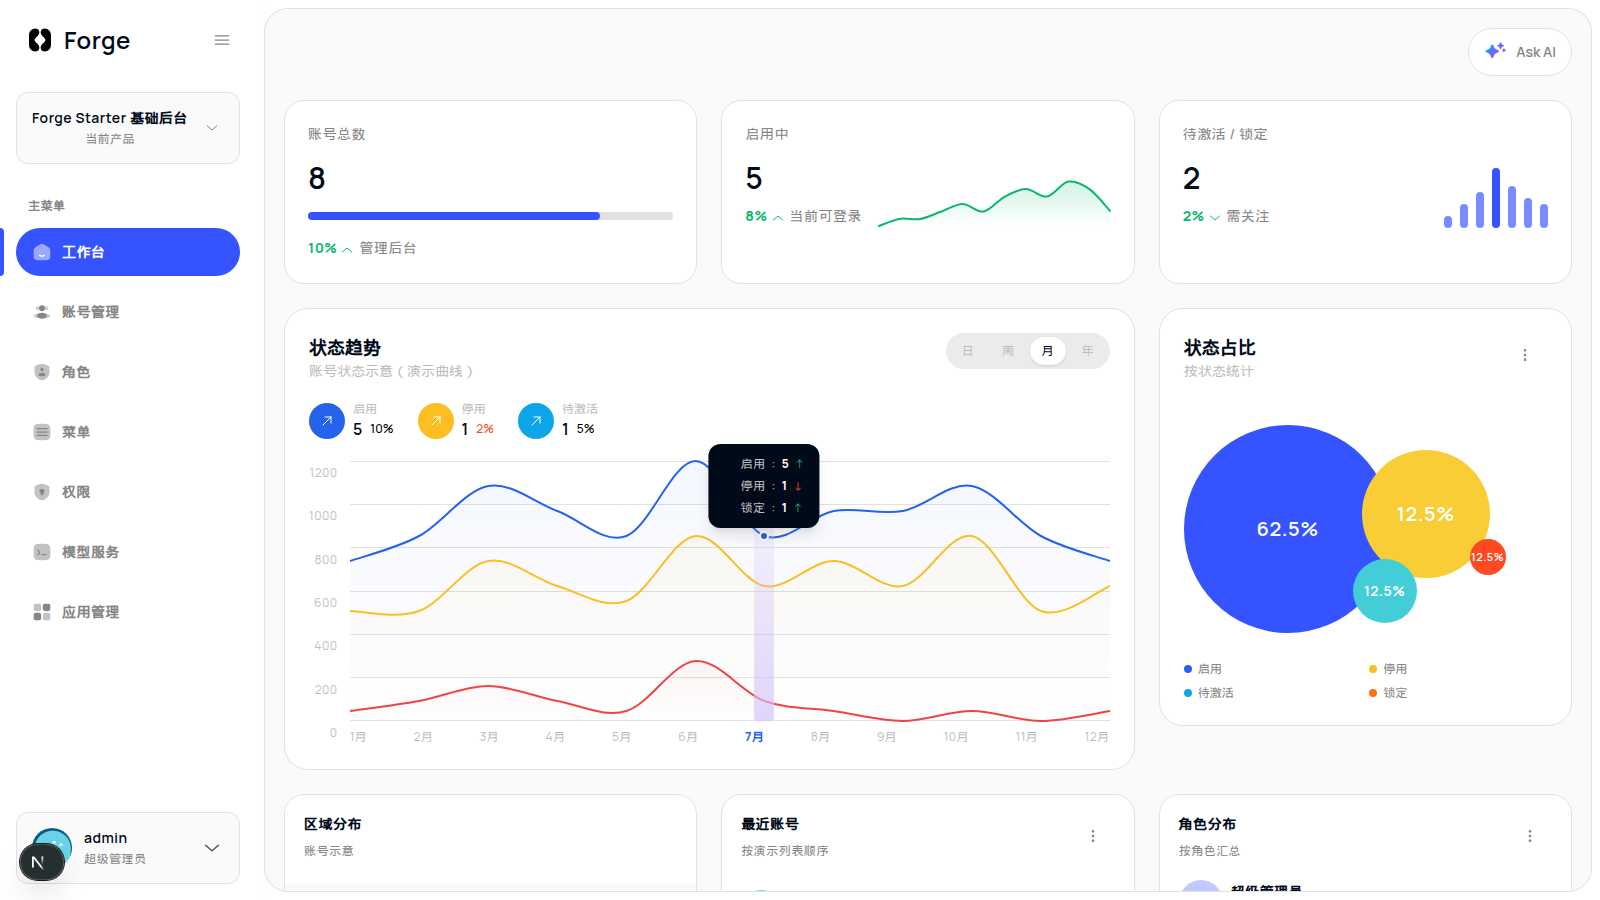
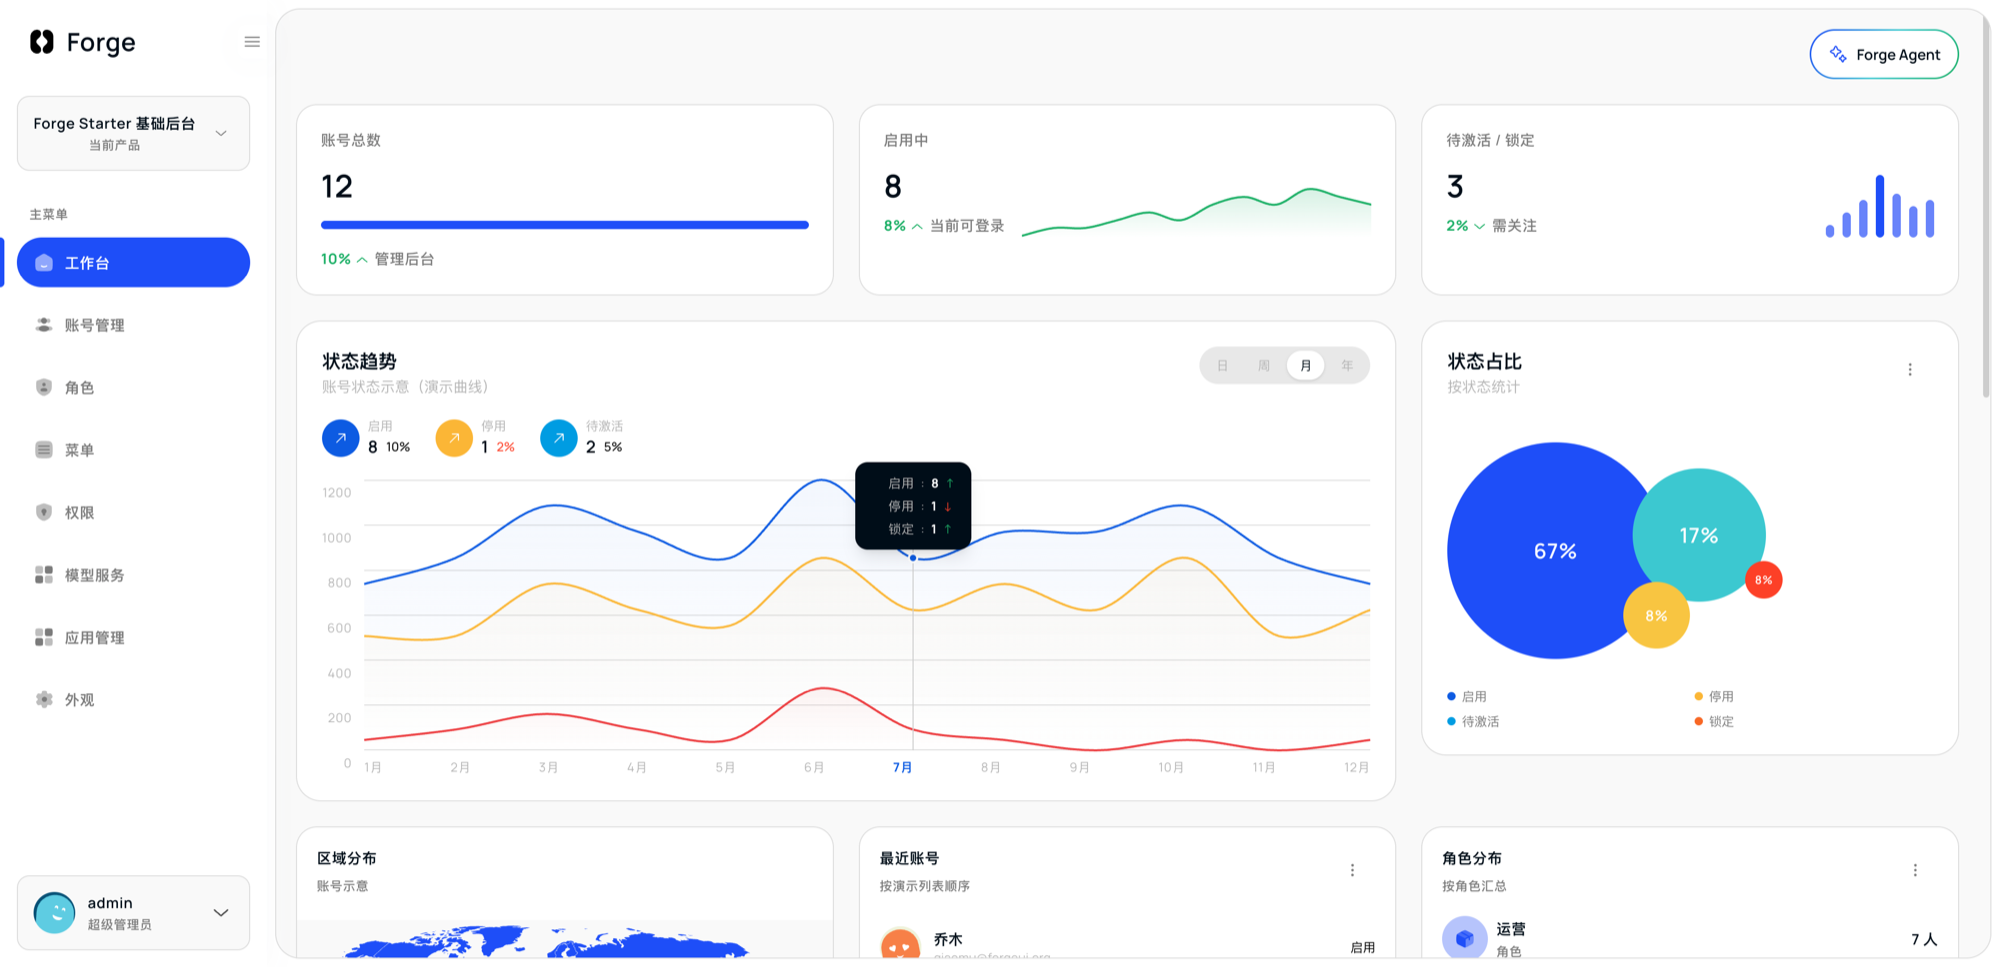
docs: refresh the README screenshots and what's in the box
The hero still showed the old Ask AI button, no 外观 menu and the Next.js dev badge. Re-shot the dashboard with 12 seeded accounts, added a dark-mode accounts list, listed the appearance setting and what Forge Agent now does, and dropped the note about an earlier README version.

diff --git a/README.md b/README.md
@@ -100,8 +100,6 @@ pnpm install && pnpm db:migrate && pnpm db:seed && pnpm dev
 
 ## 现在仓库里实际有什么
 
-上一版 README 写过「没有 RBAC」。角色、菜单、权限和 `lib/rbac` 已经在仓库里，那句话作废。
-
 | 有 | 边界 |
 | --- | --- |
 | 登录、注册、找回、重置；个人资料和改密 | 无 OAuth、社交登录 |
@@ -109,12 +107,17 @@ pnpm install && pnpm db:migrate && pnpm db:seed && pnpm dev
 | 账号管理：列表、表单弹窗、全页详情 | 样板。登录用户在 `users`，业务账号在 `admin_accounts`，不要混 |
 | 角色、菜单、权限 | 见上面的取舍。菜单目录本身进不了侧栏 |
 | 模型服务：供应商列表加模型卡片 | 密钥只留在服务端。Forge Agent 优先用这里启用的模型，没有再用 `ASK_AI_LLM_*` |
-| Forge Agent harness | 任务可以暂停、恢复；人在页面上确认后才保存。见 [docs/ask-ai-harness.md](docs/ask-ai-harness.md) |
+| Forge Agent（基于 `@forge-ui-official/agent`） | 右上角入口。能查数据、打开页面、填表，操作过程在页面上看得见；保存和删除要人在页面上确认；任务可以暂停、恢复。见 [docs/ask-ai-harness.md](docs/ask-ai-harness.md) |
+| 外观：浅色、深色、跟随系统 | 存在浏览器本地，不跟账号走 |
 | 应用管理 | 浏览器本地登记。外部认证是占位 |
 | Agent skills、`/ref` 参考页 | 参考页默认不进菜单。生产默认关闭 |
 | 从 OpenAPI 生成模块：`pnpm module:openapi` | 对接已有后端，只生成读取（类型、service、只读 API、菜单、Forge Agent 读取）；写入要在页面阶段接 |
 
 没有审批流、支付、订阅、积分、通知中心、IM、多租户。
+
+<p align="center">
+  <img src="docs/assets/readme-dark.png" alt="深色模式下的账号管理列表：状态筛选、头像、角色、部门和状态标签" width="920" />
+</p>
 
 ## 快速开始
 
